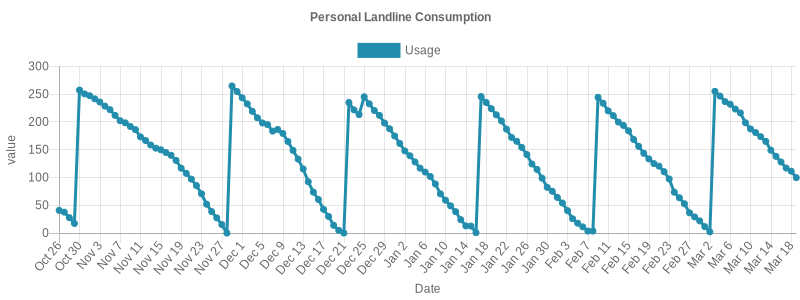
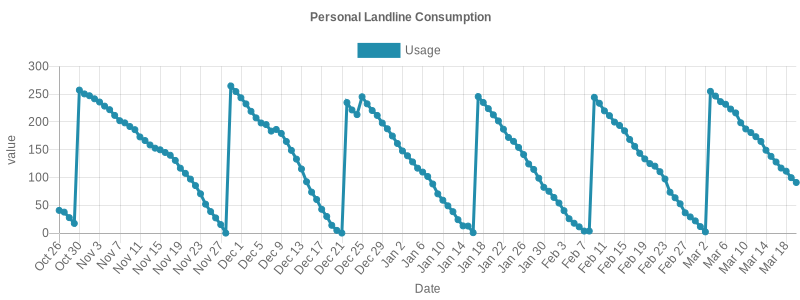
update logs

diff --git a/quota-logs/README.md b/quota-logs/README.md
@@ -144,3 +144,4 @@
 ## Sun Mar 17 2024 00:34:38 GMT+0200|117.03/250
 ## Mon Mar 18 2024 00:34:37 GMT+0200|111.41/250
 ## Tue Mar 19 2024 00:34:38 GMT+0200|99.74/250
+## Wed Mar 20 2024 00:34:56 GMT+0200|91.09/250
